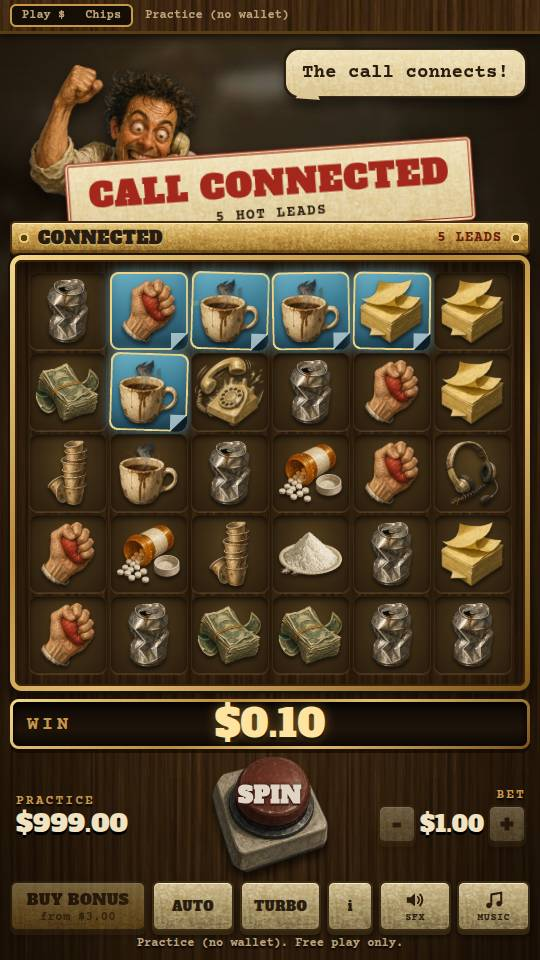
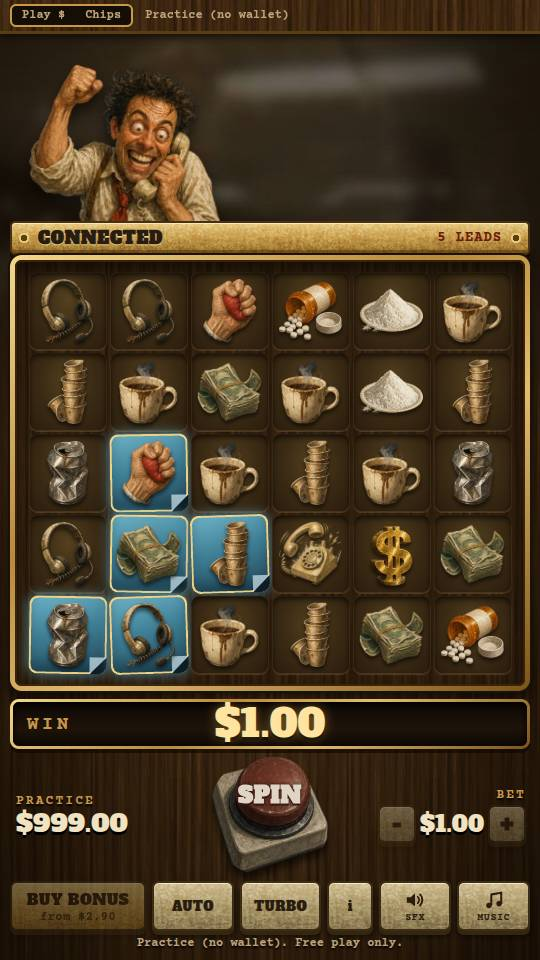
COLD CALL QA r1: one money number (WIN meter = bonus HUD total = big-win count), seal on the machine, slip under the hero, chips off the bubble amounts, info scroll cue, big-win overlay legible, no double celebration

Changed region(s): [[0.0296, 0.0312, 0.9778, 0.7188], [0.4444, 0.7188, 0.563, 0.7812]]

diff --git a/public/games/coldcall/style.css b/public/games/coldcall/style.css
@@ -135,7 +135,7 @@ button[disabled]{opacity:.4;pointer-events:none}
   box-shadow:inset 0 0 0 5px rgba(255,248,215,.22),inset 0 -10px 18px rgba(70,50,15,.45),inset 0 6px 10px rgba(255,248,215,.3)}
 .dial .hole{position:absolute;left:50%;top:50%;width:46px;height:46px;margin:-23px 0 0 -23px;border-radius:50%;background:radial-gradient(circle at 50% 38%,#2b1d0f,#0b0703 75%);box-shadow:inset 0 4px 7px #000,0 0 0 3px #8b7a52,0 0 0 5px rgba(40,28,10,.55),0 2px 0 5px rgba(255,248,215,.18);display:grid;place-items:center}
 .dial .hole span{font-family:var(--display);font-size:19px;color:#f1e3c1;font-variant-numeric:tabular-nums;text-shadow:0 2px 0 #000}
-.dial .hub{position:absolute;left:50%;top:50%;width:98px;height:98px;margin:-49px 0 0 -49px;border-radius:50%;display:grid;place-items:center;font-family:var(--memo);font-weight:400;font-size:22px;letter-spacing:.06em;color:#4a3112;pointer-events:none;z-index:2;
+.dial .hub{position:absolute;left:50%;top:50%;width:98px;height:98px;margin:-49px 0 0 -49px;border-radius:50%;display:grid;place-items:center;font-family:var(--display);font-weight:400;font-size:20px;letter-spacing:.06em;color:#4a3112;pointer-events:none;z-index:2;
   background:radial-gradient(circle at 30% 70%,rgba(120,80,30,.28),transparent 35%),radial-gradient(circle at 74% 28%,rgba(120,80,30,.2),transparent 30%),var(--img-grain),radial-gradient(circle at 50% 40%,#f1e6c6,#cdbb8b 80%);background-blend-mode:normal,normal,overlay,normal;
   border:4px solid #6a5b38;box-shadow:inset 0 0 0 3px rgba(255,248,215,.4),0 4px 6px rgba(0,0,0,.5);text-shadow:0 1px 0 rgba(255,248,215,.7)}
 .dial .stop{position:absolute;left:50%;top:50%;width:18px;height:62px;margin:-31px 0 0 -9px;border-radius:4px 4px 12px 12px;border:2px solid #3a2810;z-index:3;pointer-events:none;
@@ -165,10 +165,9 @@ button[disabled]{opacity:.4;pointer-events:none}
 .tag{position:absolute;z-index:7;transform:translate(-50%,0);font-family:var(--display);font-weight:400;font-size:21px;color:var(--brass-hi);-webkit-text-stroke:4px #1c1106;paint-order:stroke fill;white-space:nowrap}
 @keyframes sealstamp{0%{transform:scale(2.4) rotate(-25deg);opacity:0}60%{transform:scale(.92) rotate(4deg);opacity:1}100%{transform:scale(1) rotate(0);opacity:1}}
 /* PAYMENT ACCEPTED: the seal piece with a stamped slip (HTML text) */
-.accept{position:absolute;left:50%;top:48%;z-index:35;display:grid;justify-items:center;pointer-events:none;transform:translate(-50%,-50%)}
-.accept i{display:block;width:150px;height:150px;background:var(--img-seal) center/contain no-repeat;filter:drop-shadow(0 10px 8px rgba(0,0,0,.65))}
-.accept b{margin-top:-20px;padding:6px 14px;background:var(--img-grain),linear-gradient(180deg,#f2e5bf,#dac590);background-blend-mode:overlay,normal;color:#8e1f12;border:4px double #8e1f12;font-family:var(--display);font-weight:400;font-size:26px;letter-spacing:.04em;white-space:nowrap;transform:rotate(-4deg);box-shadow:0 5px 0 rgba(0,0,0,.4)}
-.accept.sm i{width:92px;height:92px}.accept.sm b{font-size:19px;padding:4px 10px}
+.accept{position:absolute;z-index:35;pointer-events:none;width:var(--cell);height:var(--cell)}
+.accept i{position:absolute;right:-14px;top:-18px;display:block;width:64px;height:64px;background:var(--img-seal) center/contain no-repeat;filter:drop-shadow(0 4px 4px rgba(0,0,0,.65))}
+.accept.sm i{width:46px;height:46px;right:-8px;top:-12px}
 /* free-spin HUD: two lamp windows under the speech bubble */
 #bh{position:absolute;right:6px;bottom:6px;z-index:3;display:grid;grid-auto-flow:column;gap:8px}
 #bh[hidden]{display:none}
@@ -231,19 +230,19 @@ button[disabled]{opacity:.4;pointer-events:none}
 .buyopt[disabled]{opacity:.45}
 .card.info{text-align:left;gap:9px}.card.info h2{text-align:center}.card.info p{font-size:13.5px}.card.info p b{color:var(--brass-hi)}
 .card.info .tl{font-family:var(--display);color:var(--brass-hi);font-size:15px;text-align:center;letter-spacing:.04em}
-.pt table{width:100%;border-collapse:collapse;font-size:11.5px;color:var(--ink);font-variant-numeric:tabular-nums}
+.pt table{width:100%;border-collapse:collapse;font-size:12.5px;color:var(--ink);font-variant-numeric:tabular-nums}
 .pt th{font-weight:700;color:var(--brass-hi);padding:2px 1px;text-align:center}
 .pt td{text-align:center;padding:2px 1px;border-top:1px solid rgba(200,152,74,.22)}
-.pt td.sy{text-align:left;display:flex;align-items:center;gap:5px;white-space:nowrap;font-size:11px}.pt td.sy img{width:28px;height:28px;filter:drop-shadow(0 2px 2px rgba(0,0,0,.6))}
-#tierbg{position:absolute;inset:0;z-index:1;background:radial-gradient(circle at 50% 45%,rgba(240,190,90,.32),rgba(8,4,0,.9) 70%);animation:fadein .25s ease-out}
-#tier{position:absolute;inset:0;z-index:2;display:grid;place-content:center;justify-items:center;gap:6px;text-align:center}
+.pt td.sy{text-align:left;display:flex;align-items:center;gap:5px;white-space:nowrap;font-size:12px}.pt td.sy img{width:30px;height:30px;filter:drop-shadow(0 2px 2px rgba(0,0,0,.6))}
+#tierbg{position:absolute;inset:0;z-index:1;background:radial-gradient(circle at 50% 45%,rgba(78,50,14,.9),rgba(8,4,0,.94) 72%);animation:fadein .25s ease-out}
+#tier{position:absolute;inset:0;z-index:2;padding-bottom:44px;display:grid;place-content:center;justify-items:center;gap:6px;text-align:center}
 #tier .bwh{width:230px;height:230px;object-fit:contain;filter:drop-shadow(0 10px 8px rgba(0,0,0,.6));margin-bottom:-14px;animation:bpop .5s cubic-bezier(.2,1.6,.4,1)}
 #tier .name{font-family:var(--display);font-weight:400;font-size:58px;letter-spacing:.04em;color:var(--brass-hi);text-shadow:0 5px 0 #5a3d10,0 8px 10px rgba(0,0,0,.8);line-height:1;animation:bpop .45s cubic-bezier(.2,1.6,.4,1)}
 #tier .xx{font-weight:700;font-size:26px;letter-spacing:.1em;color:var(--ink);text-shadow:0 2px 3px #000}
-#tier .amtw{position:relative;display:grid;place-items:center;width:520px}
+#tier .amtw{position:relative;display:grid;place-items:center;width:470px}
 #tier .amt{font-family:var(--display);font-weight:400;font-size:66px;line-height:1;color:#ffe3a1;text-shadow:0 5px 0 #000,0 0 18px rgba(255,190,80,.5);font-variant-numeric:tabular-nums}
-#tier .cw{position:absolute;top:50%;width:120px;height:120px;margin-top:-60px;background:var(--img-cashwad) center/contain no-repeat;filter:drop-shadow(0 6px 5px rgba(0,0,0,.6))}
-#tier .cw.l{left:-8px;transform:rotate(-14deg)}#tier .cw.r{right:-8px;transform:rotate(14deg) scaleX(-1)}
+#tier .cw{position:absolute;top:50%;width:96px;height:96px;margin-top:-48px;background:var(--img-cashwad) center/contain no-repeat;filter:drop-shadow(0 6px 5px rgba(0,0,0,.6))}
+#tier .cw.l{left:-6px;transform:rotate(-14deg)}#tier .cw.r{right:-6px;transform:rotate(14deg) scaleX(-1)}
 #tier .tap{font-weight:700;font-size:14px;letter-spacing:.2em;color:var(--dim);margin-top:14px;text-shadow:0 2px 3px #000}
 .toast{position:absolute;left:50%;top:150px;z-index:34;transform:translateX(-50%);padding:8px 16px;background:linear-gradient(180deg,#f2e5bf,#dac590);color:var(--paper-ink);border:3px solid #2a1c0e;border-radius:5px;font-weight:700;font-size:15px;white-space:nowrap;animation:fadein .2s ease-out;box-shadow:0 6px 10px rgba(0,0,0,.55)}
 #modebar{left:0;right:0;top:0;z-index:20;height:34px;display:grid;grid-template-columns:auto 1fr;align-items:center;gap:12px;padding:0 10px;background:linear-gradient(rgba(12,7,2,.45),rgba(12,7,2,.45)),var(--img-wood) 0 0/256px,var(--bg);border-bottom:3px solid #5a3d10;box-shadow:0 3px 8px rgba(0,0,0,.6);font-weight:700;font-size:12px}
@@ -267,3 +266,7 @@ button[disabled]{opacity:.4;pointer-events:none}
 
 /* hero art on the bonus finale cards */
 .fin-hero{width:210px;height:210px;object-fit:contain;filter:drop-shadow(0 10px 8px rgba(0,0,0,.6));animation:bpop .5s cubic-bezier(.2,1.6,.4,1)}
+
+.card.info .cue{position:sticky;bottom:-18px;margin:0 -16px -18px;padding:16px 0 8px;text-align:center;font-weight:700;font-size:12px;letter-spacing:.16em;color:var(--brass-hi);background:linear-gradient(180deg,rgba(26,14,5,0),#1a0e05 70%);pointer-events:none;transition:opacity .2s}
+.card.info .cue.end{opacity:0}
+.chip.nm:not(.set) b{font-size:38px}

diff --git a/public/games/coldcall/bonus.js b/public/games/coldcall/bonus.js
@@ -56,42 +56,47 @@
     const digit = { bonus1: 1, bonus2: 2, bonus3: 3 }[b.kind];
     ctx.SFX.bonusIntro(); CC.hero.mood('hype', 1800); ctx.say(b.kind);
     const scn = document.createElement('div'); scn.className = 'scn rot';
-    scn.innerHTML = '<div class="hd"><i></i><h2>PLACE THE CALL</h2><i></i></div><p class="sub" id="bSub">Drag the dial to the stop, or tap it</p><div id="bHost"></div><div class="chips"><div class="chip nm" id="chN"><small>YOU DIALED</small><b>-</b></div><div class="chip" id="chS"><small>FREE SPINS</small><b>-</b></div></div><div class="tap" id="bTap">PLACE THE CALL</div>';
+    scn.innerHTML = '<div class="hd"><i></i><h2>PLACE THE CALL</h2><i></i></div><p class="sub" id="bSub">Drag the dial to the stop, or tap it</p><div id="bHost"></div><div class="chips"><div class="chip nm" id="chN"><small>YOU DIALED</small><b>-</b></div><div class="chip" id="chS"><small>FREE SPINS</small><b>-</b></div></div>';
     ctx.sceneEl.replaceChildren(scn);
     const d = makeDial([1, 2, 3, 4, 5, 6, 7, 8, 9, 0], (v) => String(v), ctx); scn.querySelector('#bHost').replaceChildren(d.el);
     await d.spin(digit - 1);                                     // the dial lands on the script's digit, whatever the player did
     const set = (id, t) => { const c = scn.querySelector(id); c.querySelector('b').textContent = t; c.classList.add('set'); };
     set('#chN', NAME[b.kind]); ctx.SFX.register(); ctx.FX.burst(...ctx.stagePt(scn.querySelector('#chN')), { n: 14, speed: 260 }); await ctx.wait(500);
     set('#chS', b.startSpins); ctx.SFX.register(); ctx.FX.burst(...ctx.stagePt(scn.querySelector('#chS')), { n: 14, speed: 260 });
-    scn.querySelector('#bSub').textContent = 'The call connects. ' + b.startSpins + ' free spins.'; scn.querySelector('#bTap').textContent = '';
+    scn.querySelector('#bSub').textContent = 'The call connects. ' + b.startSpins + ' free spins.';
     await ctx.wait(1300);
   }
 
   async function run(b, ctx) {
-    const hud = $('bh'), L = $('bhLeft'), T = $('bhTot'), run0 = ctx.run.t;
+    const hud = $('bh'), L = $('bhLeft'), T = $('bhTot'), run0 = ctx.run.t, lbl = run0 > 0 ? 'ROUND TOTAL' : 'BONUS TOTAL';
     // trigger flourish (the bells that landed ring)
     ctx.SFX.sting(); CC.board.pulse('bell'); ctx.stamp('BONUS!', NAME[b.kind], 1500, $('head')); ctx.FX.shake(6, 350); await ctx.wait(1500); CC.board.pulse('bell', false);
     await intro(b, ctx);
-    ctx.sceneEl.replaceChildren(); ctx.bonusOn(); ctx.st.pace = 0.8; hud.hidden = false; L.textContent = b.startSpins; T.textContent = ctx.dollars(0); let shownTot = 0;
+    ctx.sceneEl.replaceChildren(); ctx.bonusOn(); ctx.st.pace = 0.8; hud.hidden = false; L.textContent = b.startSpins; $('bhTotL').textContent = lbl;
+    // the HUD total is the WIN meter's own number (same running total, same moments); a bonus after a paying trigger spin reads ROUND TOTAL
+    let cur = ctx.cents(run0), tw = 0; T.textContent = ctx.dollars(cur);
+    const hudTo = (to, ms) => { const id = ++tw, from = cur; ctx.tween(from, to, ms, (x) => { if (id === tw) { cur = Math.round(x); T.textContent = ctx.dollars(cur); } }).then(() => { if (id === tw) { cur = to; T.textContent = ctx.dollars(to); } }); };
+    ctx.onAdd = (add, ms) => hudTo(ctx.cents(ctx.run.t), ms);
     for (const sp of b.spins) {
       ctx.modeName = NAME[sp.mode]; (CC.dbg.spinT = CC.dbg.spinT || []).push(performance.now() | 0); ctx.rib(ctx.modeName, 'SPIN ' + sp.n); if (sp.n === 1 || Math.random() < 0.25) ctx.say('freeSpin');
       await ctx.playSpin(sp, { bonus: true });
-      const to = ctx.cents(sp.bonusTotal), from = shownTot; shownTot = to;
-      if (to !== from) ctx.tween(from, to, 350, (x) => { T.textContent = ctx.dollars(Math.round(x)); }).then(() => { T.textContent = ctx.dollars(to); });
+      if (!b.capped && ctx.run.t - run0 !== sp.bonusTotal) CC.dbg.mismatch.push({ what: 'bonus HUD total', spin: sp.n, shown: ctx.run.t - run0, script: sp.bonusTotal });
+      hudTo(ctx.cents(ctx.run.t), 200);
       L.textContent = sp.left; ctx.anim(L, [{ transform: 'scale(1)' }, { transform: 'scale(1.35)' }, { transform: 'scale(1)' }], { duration: 300 });
       if (sp.added > 0) { ctx.stamp('+' + sp.added + ' SPINS', 'THE BELLS RING', 1100); ctx.SFX.spinsAdded(sp.added); ctx.say('added'); await ctx.wait(900); }
       if (sp.upgrade) { ctx.stamp('UPGRADED!', NAME.bonus2, 1500, null, 'hi'); ctx.SFX.upgrade(); CC.hero.mood('hype', 1800); await ctx.wait(1250); }
     }
     const got = ctx.run.t - run0; if (!b.capped && got !== b.winTenths) CC.dbg.mismatch.push({ what: 'bonus total', shown: got, script: b.winTenths });
     // finale
-    ctx.sceneEl.replaceChildren(); hud.hidden = true; ctx.st.pace = 1; (CC.dbg.spinT = CC.dbg.spinT || []).push(-(performance.now() | 0));
-    {                                                            // always shown; a big-win overlay (if any) follows it, so it holds shorter then
+    ctx.onAdd = null; ctx.sceneEl.replaceChildren(); hud.hidden = true; ctx.st.pace = 1; (CC.dbg.spinT = CC.dbg.spinT || []).push(-(performance.now() | 0));
+    if (ctx.willBig) { ctx.SFX.accepted(); CC.hero.mood('win', 3000); await ctx.wait(500); }   // the big-win overlay is the celebration; no second card before it
+    else {
       ctx.SFX.accepted(); ctx.FX.coins(40); ctx.FX.confetti(25); CC.hero.mood('win', 3000);
       const end = document.createElement('div'); end.className = 'scn';
-      end.innerHTML = '<h2></h2><div class="chips"><div class="chip set"><small>SPINS PLAYED</small><b></b></div><div class="chip set nm"><small>MODE</small><b></b></div></div><div class="chip set" style="width:100%"><small>BONUS TOTAL</small><b></b></div><div class="tap">TAP TO CONTINUE</div>';
+      end.innerHTML = '<h2></h2><div class="chips"><div class="chip set"><small>SPINS PLAYED</small><b></b></div><div class="chip set nm"><small>MODE</small><b></b></div></div><div class="chip set" style="width:100%"><small></small><b></b></div><div class="tap">TAP TO CONTINUE</div>';
       end.querySelector('h2').innerHTML = 'BONUS<br>COMPLETE'; const bs = end.querySelectorAll('b');
-      bs[0].textContent = b.spins.length; bs[1].textContent = NAME[b.spins.length ? b.spins[b.spins.length - 1].mode : b.kind]; bs[2].textContent = ctx.dollars(ctx.cents(b.winTenths));
-      end.prepend(CC.hero.img('win', 'fin-hero')); ctx.sceneEl.replaceChildren(end); await ctx.waitTap(ctx.willBig ? 3200 : 7000); ctx.FX.clear();
+      bs[0].textContent = b.spins.length; bs[1].textContent = NAME[b.spins.length ? b.spins[b.spins.length - 1].mode : b.kind]; bs[2].textContent = ctx.dollars(ctx.cents(ctx.run.t)); end.querySelector('.chip[style] small').textContent = lbl;
+      end.prepend(CC.hero.img('win', 'fin-hero')); ctx.sceneEl.replaceChildren(end); await ctx.waitTap(7000); ctx.FX.clear();
     }
     ctx.sceneEl.replaceChildren(); ctx.modeName = null; ctx.bonusOff();
   }

diff --git a/public/games/coldcall/phone.js b/public/games/coldcall/phone.js
@@ -23,6 +23,7 @@
   const bump = (el, s = 1.22) => A(el, [{ transform: 'scale(1)' }, { transform: `scale(${s})`, offset: 0.4 }, { transform: 'scale(1)' }], { duration: 260, easing: 'ease-out' });
   const sum = () => { let t = 0; S.forEach((s) => { if (s.k === 'b' || (s.k === 'c' && s.collected)) t += s.v; }); return t; };
   const bad = (o) => CC.dbg.mismatch.push(o);
+  let paid = 0;                                               // tenths of phone money already in the WIN meter
 
   async function reveal(round, ri, ctx) {
     const rs = round.reveals, stag = Math.min(70, 650 / Math.max(1, rs.length));
@@ -57,8 +58,8 @@
     me.el.classList.add('live'); SFX().closeStart(); bump(me.el, 1.3); await K().wait(first ? 260 : 140);
     const [tx, ty] = ctr(c.p), n = srcs.length, gap = Math.min(55, 520 / Math.max(1, n)); let shown = 0; const ps = [];
     srcs.forEach(([p, s], i) => {
-      shown += s.v; const [sx, sy] = ctr(p), ch = document.createElement('b'); ch.className = 'fchip'; ch.textContent = amt(ctx.cents(s.v)); ch.style.left = sx + 'px'; ch.style.top = sy + 'px'; B().ovl().appendChild(ch);
-      ps.push(A(ch, [{ transform: 'translate(-50%,-50%) scale(1)', opacity: 1 }, { transform: `translate(calc(-50% + ${tx - sx}px),calc(-50% + ${ty - sy}px)) scale(.6)`, opacity: 0.9 }], { duration: 300, delay: i * gap, easing: 'ease-in' }).then(() => { ch.remove(); bump(me.el, 1.12); if (i < 10 || i % 3 === 0) SFX().collect(i); }));
+      shown += s.v; const [sx, sy] = ctr(p), ch = document.createElement('b'); ch.className = 'fchip'; ch.textContent = amt(ctx.cents(s.v)); ch.style.left = sx + 'px'; ch.style.top = sy - 27 + 'px'; B().ovl().appendChild(ch);
+      ps.push(A(ch, [{ transform: 'translate(-50%,-50%) scale(1)', opacity: 1 }, { transform: `translate(calc(-50% + ${tx - sx}px),calc(-50% + ${ty - sy + 27}px)) scale(.6)`, opacity: 0.9 }], { duration: 300, delay: i * gap, easing: 'ease-in' }).then(() => { ch.remove(); bump(me.el, 1.12); if (i < 10 || i % 3 === 0) SFX().collect(i); }));
     });
     await Promise.all(ps);
     if (shown !== c.took) bad({ what: 'close took', p: c.p, shown, script: c.took });
@@ -67,20 +68,21 @@
     if (c.m > 1) me.el.querySelector('.mx').textContent = 'x' + c.m;
     me.el.classList.remove('live'); me.el.classList.add('done');
     SFX().stamp(); if (c.value >= 250) { CC.hero.mood('win', 2600); K().FX.coins(14); K().FX.ring(...K().stagePt(me.el), { n: 2, r1: 120 }); }
-    await Promise.all([accept(first, ctx), lcd]);
+    await Promise.all([accept(first, ctx, c.p), lcd]);
     if (sum() !== c.run) bad({ what: 'close run', p: c.p, shown: sum(), script: c.run });
-    ctx.rib('THE CLOSE', amt(ctx.cents(c.run)));
+    ctx.rib('THE CLOSE', ''); const d = c.run - paid; if (d > 0) { paid += d; await ctx.addWin(d, 520); }   // WIN counts every close as it lands
   }
 
-  // PAYMENT ACCEPTED: the seal piece lands on the board with a stamped slip (CSS text)
-  async function accept(first, ctx) {
-    const d = document.createElement('div'); d.className = 'accept' + (first ? '' : ' sm'); d.innerHTML = '<i></i><b>PAYMENT ACCEPTED</b>'; K().board.appendChild(d);
-    await Promise.all([A(d, [{ transform: 'translate(-50%,-50%) scale(2.2) rotate(-10deg)', opacity: 0 }, { transform: 'translate(-50%,-50%) scale(.94) rotate(-3deg)', opacity: 1, offset: 0.22 }, { transform: 'translate(-50%,-50%) scale(1) rotate(-3deg)', opacity: 1, offset: 0.8 }, { transform: 'translate(-50%,-56%) scale(1) rotate(-3deg)', opacity: 0 }], { duration: first ? 1100 : 650, easing: 'ease-out' }), K().wait(first ? 620 : 380)]);
+  // PAYMENT ACCEPTED: the seal piece is stamped on the corner of the card machine, the slip (CSS text) sits under the hero's chin so the board stays readable
+  async function accept(first, ctx, p) {
+    const d = mkEl('accept' + (first ? '' : ' sm'), p); d.innerHTML = '<i></i>'; B().ovl().appendChild(d);
+    if (first) K().stamp('PAYMENT ACCEPTED', '', 900, document.getElementById('head'));
+    await Promise.all([A(d, [{ transform: 'scale(2.4) rotate(-14deg)', opacity: 0 }, { transform: 'scale(.92) rotate(-6deg)', opacity: 1, offset: 0.25 }, { transform: 'scale(1) rotate(-6deg)', opacity: 1, offset: 0.75 }, { transform: 'scale(1) rotate(-6deg)', opacity: 0 }], { duration: first ? 900 : 560, easing: 'ease-out' }), K().wait(first ? 620 : 380)]);
     d.remove();
   }
 
   async function run(spin, ctx) {
-    const ph = spin.phone, B_ = B(); S.clear();
+    const ph = spin.phone, B_ = B(); S.clear(); paid = 0;
     // 1. the call connects
     B_.cellsOf('phone').forEach((p) => B_.el(p).classList.add('pulse', 'ring')); SFX().phoneRing(); K().say('phone'); CC.hero.mood('hype', 1800);
     ctx.rib('CONNECTED', ph.leads.length + (ph.leads.length === 1 ? ' LEAD' : ' LEADS')); K().stamp('CALL CONNECTED', ph.leads.length + (ph.leads.length === 1 ? ' HOT LEAD' : ' HOT LEADS'), 1000, document.getElementById('head'));   // under the hero's chin: the lit squares stay in view
@@ -95,8 +97,8 @@
     }
     // 3. what is on the board pays
     if (!ph.capped && sum() !== ph.pay) bad({ what: 'phone pay', shown: sum(), script: ph.pay });
-    ctx.rib('PAYS', amt(ctx.cents(ph.pay))); SFX().coin();
-    await ctx.addWin(ph.pay, 650); await K().wait(450);
+    ctx.rib('PAYING OUT', ''); SFX().coin();
+    if (ph.pay !== paid) await ctx.addWin(ph.pay - paid, 650); await K().wait(450);
     // 4. clean up: every reveal leaves, the symbols come back
     const kids = [...B_.ovl().children]; kids.forEach((n, i) => { if (n.classList.contains('rv')) flipOut(n, Math.min(i * 12, 160)); });
     await K().wait(300); B_.ovl().replaceChildren(); S.forEach((_, p) => B_.el(p).classList.remove('under')); S.clear();

diff --git a/public/games/coldcall/game.js b/public/games/coldcall/game.js
@@ -145,7 +145,7 @@
     let tk = 0; const iv = setInterval(() => SFX_.tick(tk++), 55);
     const skipped = await new Promise((res) => Tick.add((now) => {
       const sk = st.tap !== tap0 && now - t0 > 300, k = sk ? 1 : Math.max(0, Math.min(1, (now - t0) / D)), e = k < 0.85 ? (k / 0.85) * 0.8 : 0.8 + 0.2 * (1 - Math.pow(1 - (k - 0.85) / 0.15, 3));
-      a.textContent = dollars(amtCents * (k >= 1 ? 1 : e)); if (k >= 1) { res(sk); return false; } return true;
+      a.textContent = dollars(amtCents * (k >= 1 ? 1 : e)); $('win').textContent = a.textContent; if (k >= 1) { res(sk); return false; } return true;
     }));
     clearInterval(iv); SFX_.coin(); CC.fx.burst(270, 430, { n: 30, speed: 420, size: 9 }); CC.fx.coins(20);
     await waitTap(skipped ? 700 : 1800);
@@ -165,7 +165,7 @@
       // ribbon: left = mode name while a bonus runs (else the first text), right = the status text
       rib(l, r) { if (ctx.modeName) { $('ribL').textContent = ctx.modeName; $('ribR').textContent = l === ctx.modeName ? (r || '') : l + (r ? ' ' + r : ''); } else { $('ribL').textContent = l; $('ribR').textContent = r == null ? '' : r; } },
       // add tenths to the running total (never decreases, never exceeds the server's round total); `raw` is what the script asked for, for the self-check
-      addWin(t, ms) { run.raw += t; const add = Math.max(0, Math.min(t, run.total - run.t)); run.t += add; return setWin(run.t * b / 10, true, ms || 450); },
+      addWin(t, ms) { run.raw += t; const add = Math.max(0, Math.min(t, run.total - run.t)); run.t += add; if (add && ctx.onAdd) ctx.onAdd(add, ms || 450); return setWin(run.t * b / 10, true, ms || 450); },
       willBig: E.winTier(p.totalWinTenths / 10) in TIER_LVL, isLast: true
     };
     ctx.playSpin = (sp, o) => playSpin(ctx, sp, o);
@@ -359,7 +359,7 @@
       const head = ['5', '6', '7', '8', '9', '10', '11', '12', '13+'].map((s) => `<th>${s}</th>`).join('');
       const rows = E.SYM.slice(0, E.NREG).reverse().map((s) => `<tr><td class="sy"><img src="${CC.assets.symUrl(s)}" alt=""><span>${NAMES[s]}</span></td>${C.pay[s].map((t) => `<td>${x(t)}</td>`).join('')}</tr>`).join('');
       const range = (a) => x(a[0][0]) + 'x to ' + x(a[a.length - 1][0]) + 'x';
-      await modal(`<div class="card info"><h2>How it plays</h2>
+      const pr = modal(`<div class="card info"><h2>How it plays</h2>
         <p><b>Clusters.</b> Land 5 or more of the same symbol touching each other (up, down, left, right) to win. <b>The Closer</b> is wild for any pay symbol.</p>
         <p><b>Cascades.</b> A win clears the cluster and every other matching symbol on the board. The rest fall, new ones drop in, and it repeats while wins keep forming.</p>
         <p><b>Hot leads.</b> Every square in a winning cluster turns into a sticky note and stays lit while symbols fall.</p>
@@ -367,7 +367,9 @@
         <p><b>Bells.</b> The desk bells that landed in a spin: 3 = DIALING FOR DOLLARS (${C.spins.bonus1} free spins, leads stay lit until a phone calls them), 4 = ALWAYS BE CLOSING (${C.spins.bonus2} free spins, leads stay lit the whole bonus), 5 or more = QUOTE ACCEPTED (${C.spins.bonus3} free spins, a phone on every spin, no bronze bubbles). In a bonus 2 bells add 2 spins, 3 add 4; 4 or more in DIALING FOR DOLLARS upgrades it to ALWAYS BE CLOSING. Up to ${C.maxSpins} spins.</p>
         <p class="tl">Pay for a cluster, x bet</p><div class="pt"><table><tr><th></th>${head}</tr>${rows}</table></div>
         <p><small>Max win ${E.MAX_WIN_X.toLocaleString('en-US')}x. ${st.server && st.server.rtp ? 'RTP ' + st.server.rtp + '.' : ''} Play money only: no deposits, no payouts.</small></p>
-        <button class="btn" data-v="x">Close</button></div>`, { backdrop: true });
+        <button class="btn" data-v="x">Close</button><div class="cue">SCROLL FOR THE PAY TABLE</div></div>`, { backdrop: true });
+      const cd = ov.querySelector('.card.info'), cue = cd.querySelector('.cue'); const chk = () => cue.classList.toggle('end', cd.scrollTop + cd.clientHeight >= cd.scrollHeight - 6); cd.addEventListener('scroll', chk); chk();
+      await pr;
     });
   }
 

diff --git a/public/games/coldcall/index.html b/public/games/coldcall/index.html
@@ -14,7 +14,7 @@
       <section id="head">
         <img id="hero" alt="" decoding="sync">
         <div id="cap" aria-live="polite"><p id="capT"></p><i id="capTail"></i></div>
-        <div id="bh" hidden><div class="chip"><small>SPINS LEFT</small><b id="bhLeft">0</b></div><div class="chip"><small>BONUS TOTAL</small><b id="bhTot">$0</b></div></div>
+        <div id="bh" hidden><div class="chip"><small>SPINS LEFT</small><b id="bhLeft">0</b></div><div class="chip"><small id="bhTotL">BONUS TOTAL</small><b id="bhTot">$0</b></div></div>
       </section>
       <div id="ribbon"><span id="ribL">5+ touching, any direction</span><span class="r" id="ribR"></span></div>
       <div id="board">
